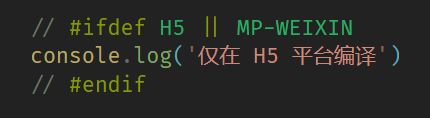
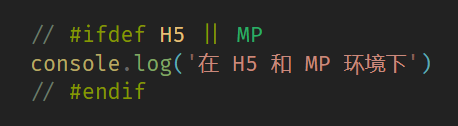
feat:  platform colorful highlight

diff --git a/src/setPlatformColor.ts b/src/setPlatformColor.ts
@@ -1,4 +1,4 @@
-import type { TextEditor } from 'vscode'
+import type { TextEditor, TextEditorDecorationType } from 'vscode'
 import { DecorationRangeBehavior, MarkdownString, window } from 'vscode'
 import { HIGHTLIGHT_COLOR } from './constants'
 import type { HighlightRange } from './transformPlatform'
@@ -14,14 +14,21 @@ const prefixColorDecoration = window.createTextEditorDecorationType({
   rangeBehavior: DecorationRangeBehavior.ClosedClosed,
 })
 
-const platformColorDecoration = window.createTextEditorDecorationType({
-  color: HIGHTLIGHT_COLOR.platform['MP-WEIXIN'],
-  rangeBehavior: DecorationRangeBehavior.ClosedClosed,
-})
+function createPlatformColorDecoration (color: string) {
+  return window.createTextEditorDecorationType({
+    color,
+    rangeBehavior: DecorationRangeBehavior.ClosedClosed,
+  })
+}
 
+const platformColorDecorationList:TextEditorDecorationType[] = []
 function initDecorations(editor: TextEditor) {
   editor.setDecorations(UnderlineDecoration, [])
-  editor.setDecorations(platformColorDecoration, [])
+  if(platformColorDecorationList.length > 0)
+    platformColorDecorationList.forEach(item => {
+      item.dispose()
+    })
+  platformColorDecorationList.length = 0
   editor.setDecorations(prefixColorDecoration, [])
 }
 
@@ -37,10 +44,16 @@ export function setPlatformColor(
     prefixColorDecoration,
     prefix,
   )
-  editor.setDecorations(
-    platformColorDecoration,
-    platform,
-  )
+
+  platform.forEach(item => {
+    const { color, range } = item
+    const decoration = createPlatformColorDecoration(color)
+    platformColorDecorationList.push(decoration)
+    editor.setDecorations(
+      decoration,
+      [range],
+    )
+  })
 
   editor.setDecorations(
     UnderlineDecoration,

diff --git a/src/getPlatformInfo.ts b/src/getPlatformInfo.ts
@@ -1,5 +1,5 @@
 import type { Platform } from './constants'
-import { PLATFORM_LIST } from './constants'
+import { PLATFORM_LIST, HIGHTLIGHT_COLOR } from './constants'
 import { parseComment } from './parseComment'
 
 export function getPlatformInfo(code: string): PlatformInfo[] {
@@ -8,27 +8,29 @@ export function getPlatformInfo(code: string): PlatformInfo[] {
   if (!commentAST)
     return []
 
-  const platformInfo = []
+  const platformInfos = []
   for (let i = 0; i < commentAST.length; i++) {
     const item = commentAST[i]
     const { start, end, type, row } = item
+    const color = HIGHTLIGHT_COLOR.platform[row as Platform]
 
     if (type === 'prefix') {
-      platformInfo.push({
+      platformInfos.push({
         start,
         end,
         type,
       })
     }
-    else if (type === 'platform' && PLATFORM_LIST.includes(row as Platform)) {
-      platformInfo.push({
+    else if (type === 'platform' && color) {
+      platformInfos.push({
         start,
         end,
         type,
+        color,
       })
     }
-    else if (type === 'platform' && !PLATFORM_LIST.includes(row as Platform)) {
-      platformInfo.push({
+    else if (type === 'platform' && !color) {
+      platformInfos.push({
         start,
         end,
         type: 'unPlatform',
@@ -36,7 +38,7 @@ export function getPlatformInfo(code: string): PlatformInfo[] {
       })
     }
   }
-  return platformInfo as PlatformInfo[]
+  return platformInfos as unknown as PlatformInfo[]
 }
 
 export interface PlatformInfo {
@@ -44,4 +46,5 @@ export interface PlatformInfo {
   start: number
   end: number
   type: 'prefix' | 'platform' | 'unPlatform'
+  color: string
 }

diff --git a/src/transformPlatform.ts b/src/transformPlatform.ts
@@ -1,4 +1,4 @@
-import type { TextEditor } from 'vscode'
+import { Color, TextEditor } from 'vscode'
 import { Range } from 'vscode'
 import type { PlatformInfo } from './getPlatformInfo'
 
@@ -9,28 +9,36 @@ export function transformPlatform(platformInfos: PlatformInfo[], editor: TextEdi
     unPlatform: [],
   }
   platformInfos.forEach((platformInfo) => {
-    const { start, end } = platformInfo
+    const { start, end,row, color } = platformInfo
     const range = new Range(
       editor.document.positionAt(start),
       editor.document.positionAt(end),
     )
-    highlightRange[platformInfo.type].push(
-      // eslint-disable-next-line @typescript-eslint/ban-ts-comment
-      // @ts-expect-error
-      platformInfo.type === 'unPlatform'
-        ? {
-            range,
-            row: platformInfo.row,
-          }
-        : range,
-    )
+    if (platformInfo.type === 'prefix') {
+      highlightRange.prefix.push(range)
+    }
+    if (platformInfo.type === 'platform') {
+      highlightRange.platform.push({
+        range,
+        color,
+    })
+    }
+    if (platformInfo.type === 'unPlatform') {
+      highlightRange.unPlatform.push({
+        range,
+        row,
+      })
+    }
   })
   return highlightRange
 }
 
 export interface HighlightRange {
   prefix: Range[]
-  platform: Range[]
+  platform: {
+    range:Range
+    color: string
+  }[]
   unPlatform: {
     range: Range
     row: string

diff --git a/test/index.test.ts b/test/index.test.ts
@@ -54,6 +54,7 @@ describe('getPlatformInfo', () => {
           "type": "prefix",
         },
         {
+          "color": "#e5c07b",
           "end": 19,
           "start": 17,
           "type": "platform",
@@ -77,6 +78,7 @@ describe('getPlatformInfo', () => {
           "type": "prefix",
         },
         {
+          "color": "#2aae67",
           "end": 17,
           "start": 15,
           "type": "platform",

diff --git a/README.md b/README.md
@@ -14,6 +14,10 @@
 <img src="./.github/images/more.png" width="300">
 
 ***
+### 各平台多种颜色高亮
+<img src="./.github/images/colorful.png" width="300">
+
+***
 
 ### 错误提示
 <img src='./.github/images/error.png' width="400">
